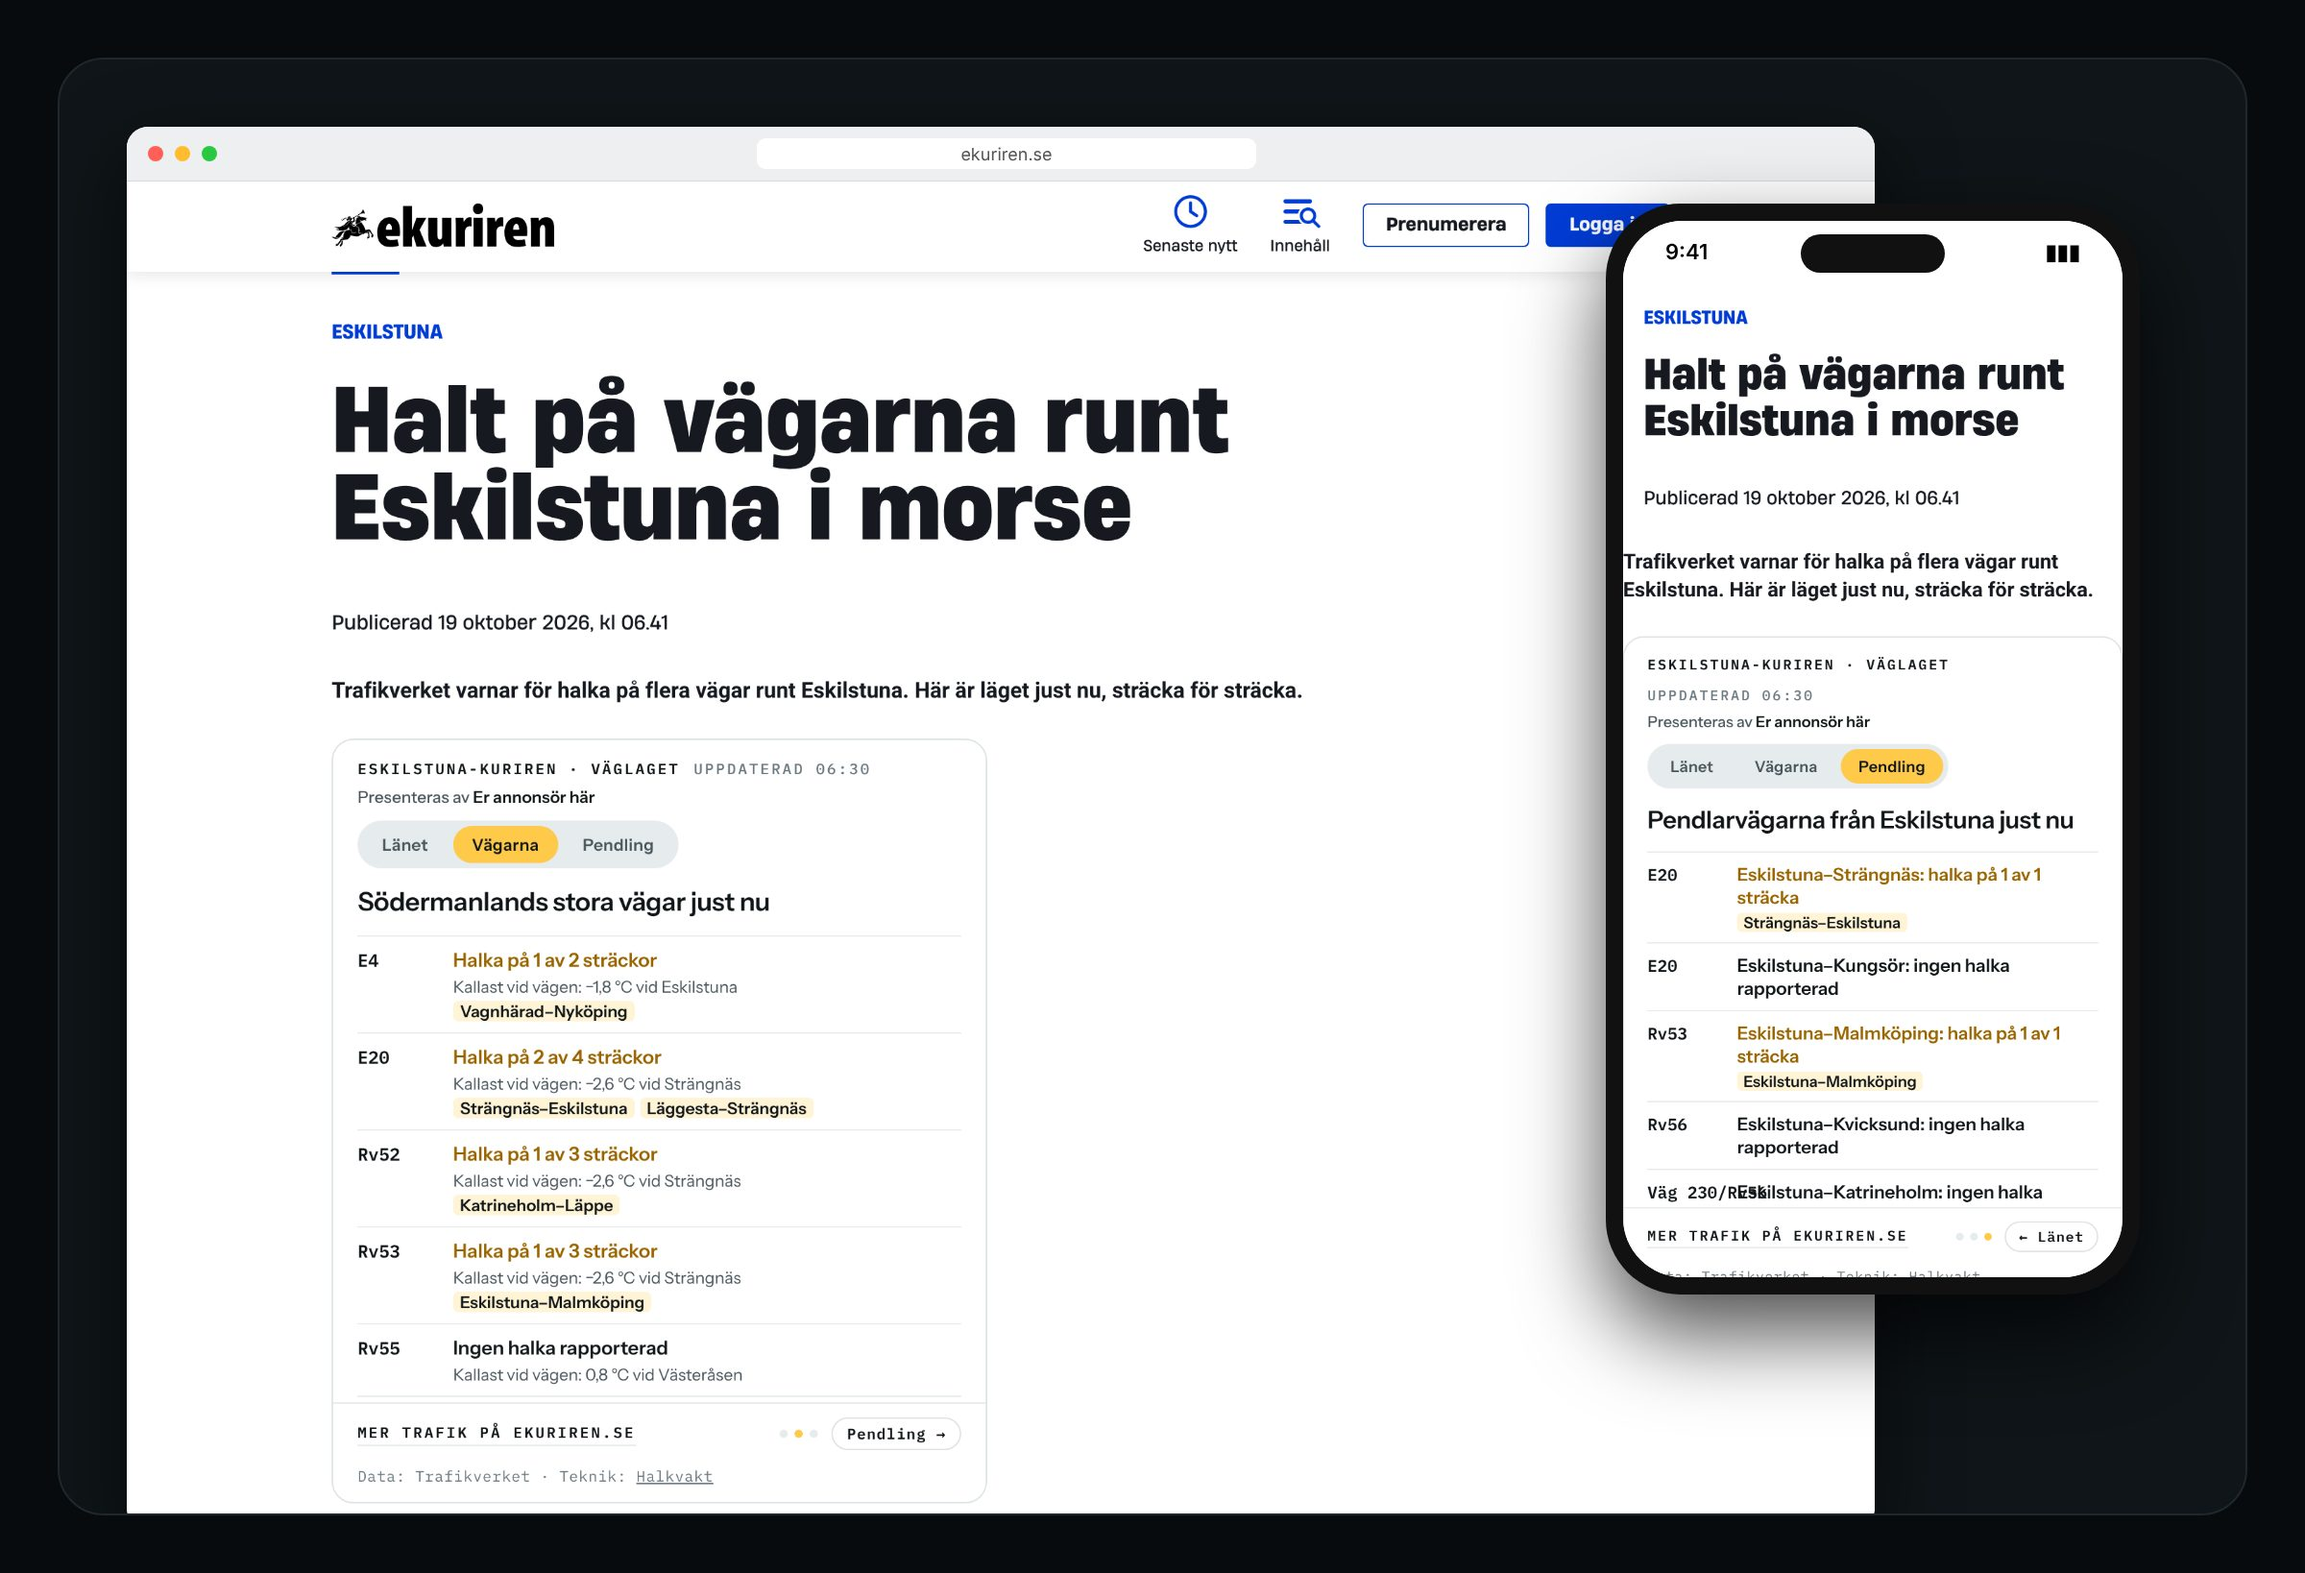
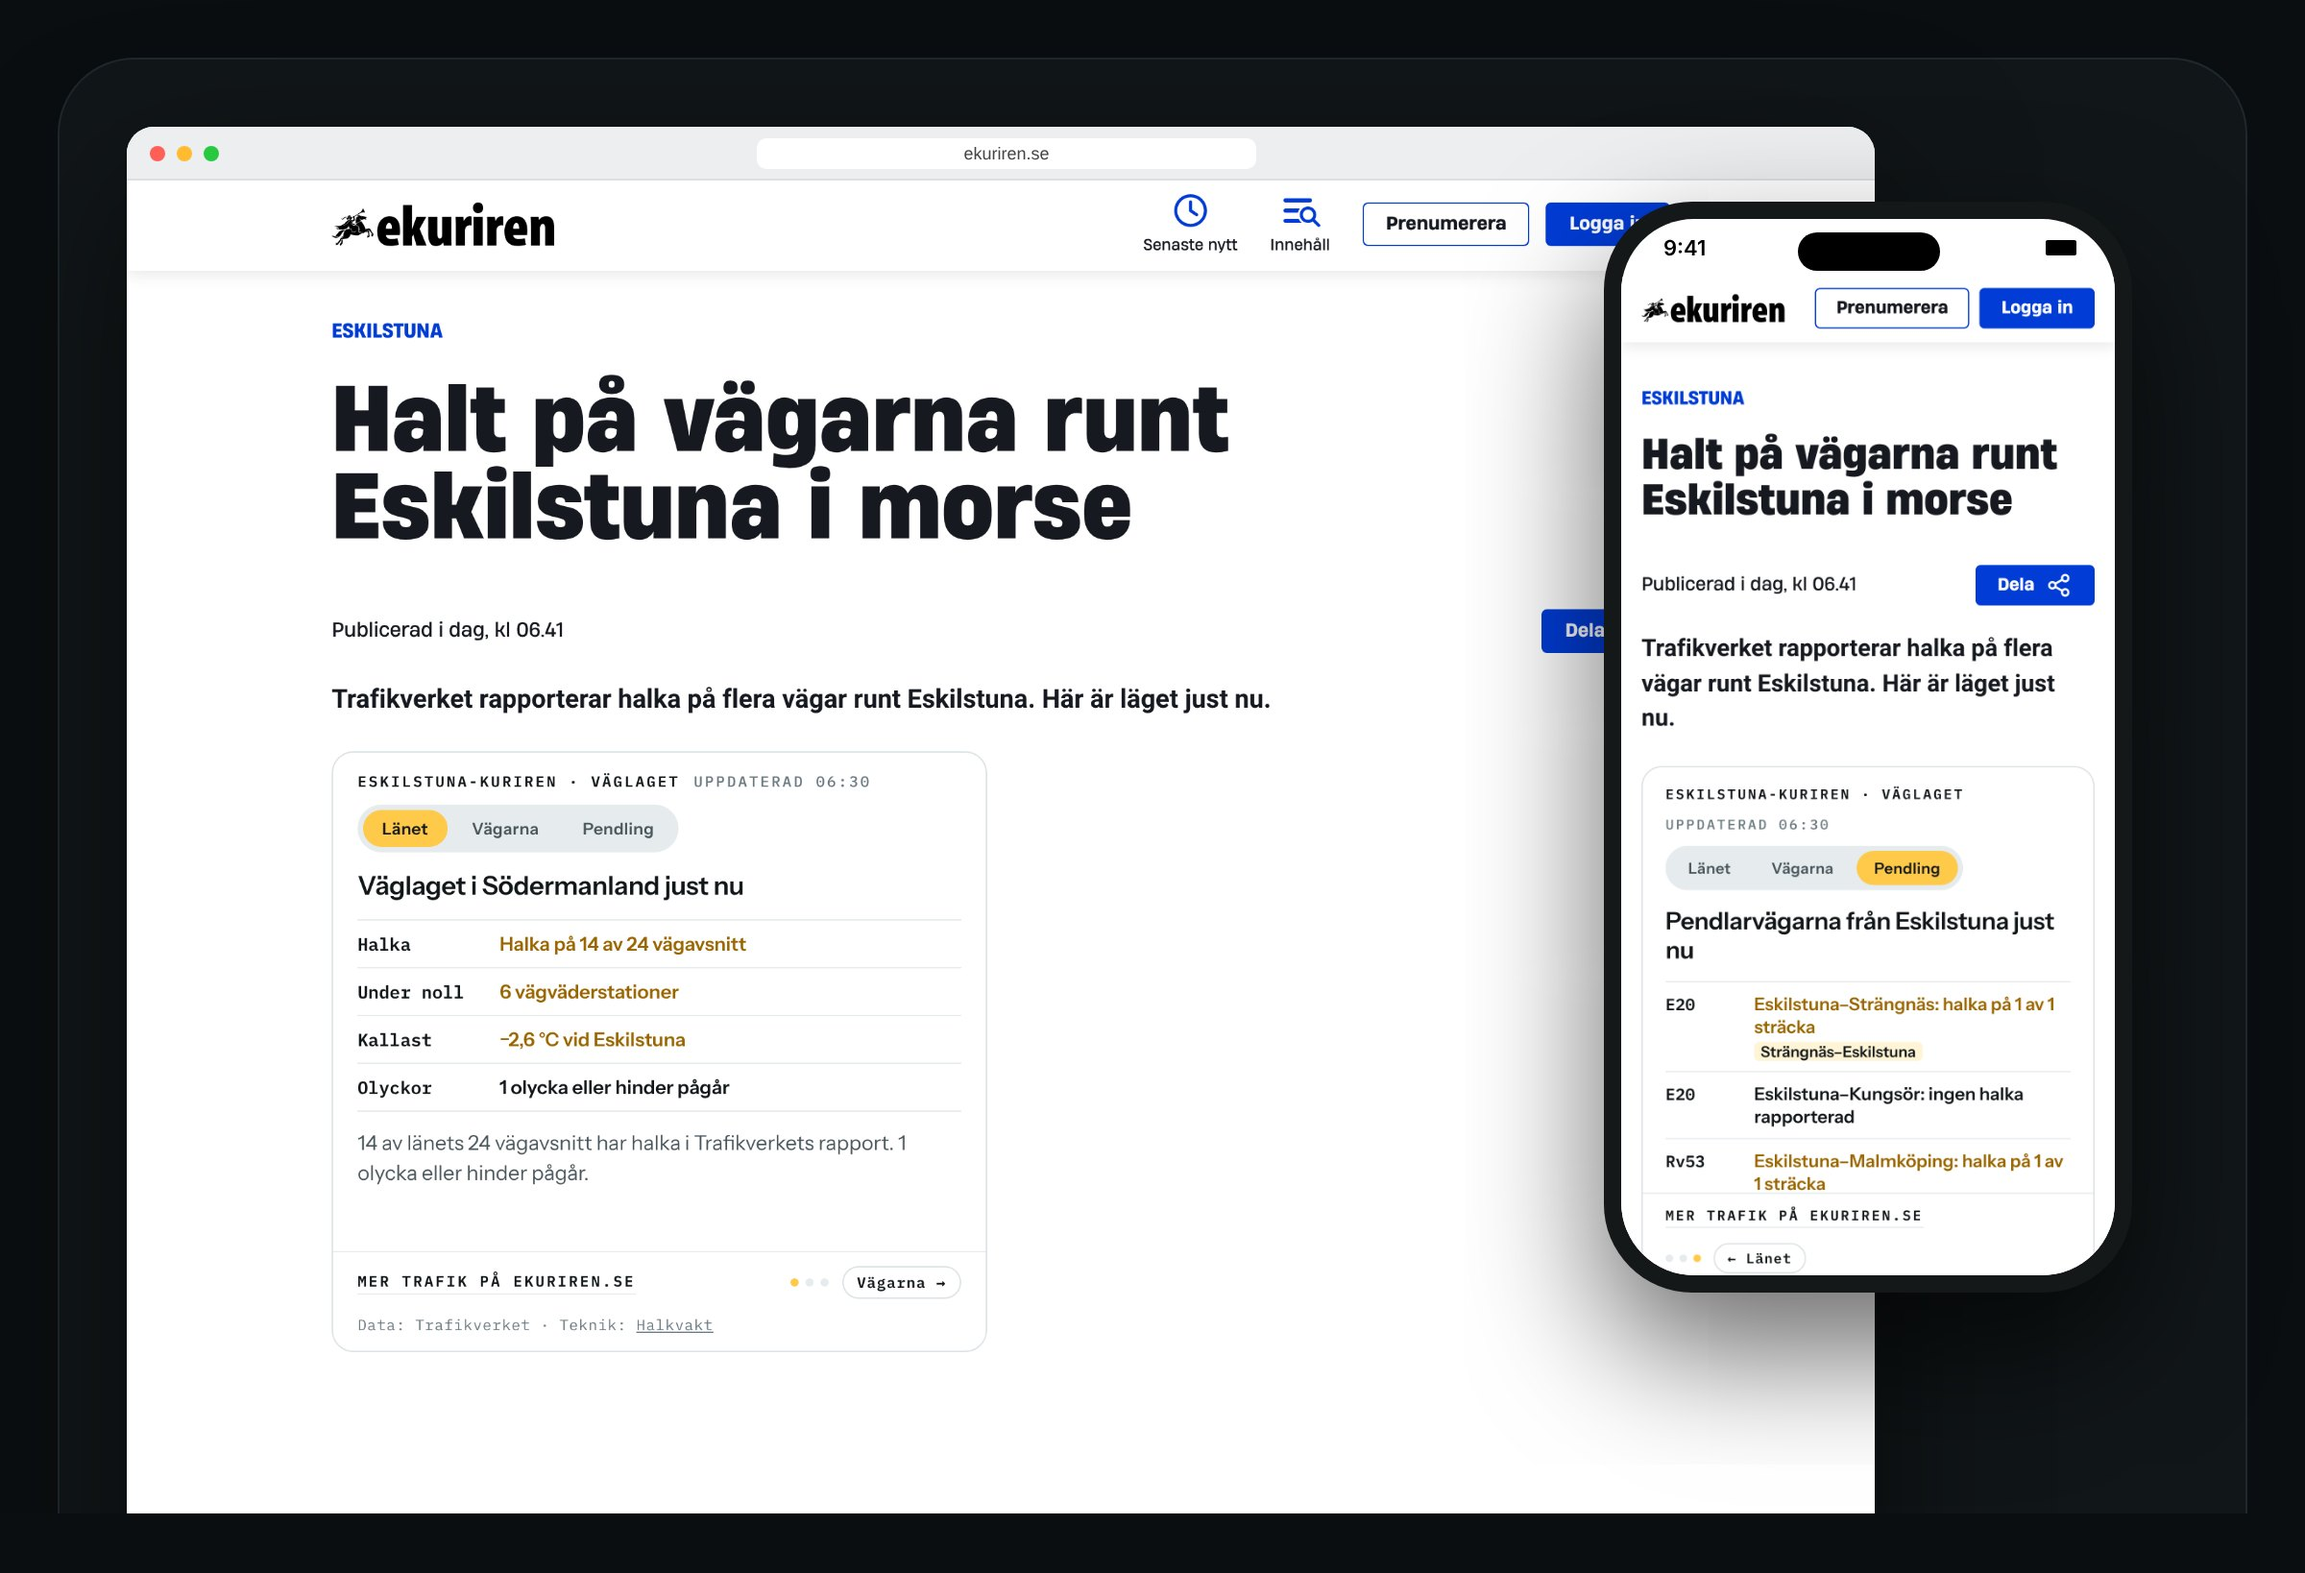
Nytt artikelmontage för Eskilstuna-Kuriren: fliken Länet, ingen annonsörsrad, "i dag" i stället för datum
Axel 13/11: montaget ska se ut som rutan hos Jämtlands Tidning. montage.py får --artikel som bygger
montaget i en riktig artikel på tidningens sajt (kakdialogen godkänns, rubrik, tid och ingress byts,
bilder och brödtext tas bort). Pendlarfliken visar halka på varannan del av stråken.

Claude-Session: https://claude.ai/code/session_01NnkxiqUHnHYivZVGrWoufu

diff --git a/ekuriren.html b/ekuriren.html
@@ -149,7 +149,7 @@ footer{padding-block:40px 64px;border-top:1px solid var(--kant);color:var(--damp
       <h2>Så kan det se ut en morgon med halka</h2>
     </div>
     <figure class="montage">
-      <a href="press/ekuriren-artikel.jpg?v=1" target="_blank" rel="noopener"><img src="press/ekuriren-artikel.jpg?v=1" width="2400" height="1638" alt="Bildmontage: en artikel på ekuriren.se, Halt på vägarna runt Eskilstuna i morse, med Eskilstuna-Kurirens väglagsruta efter ingressen. På datorn visar rutan fliken Vägarna, på mobilen fliken Pendling." loading="lazy"></a>
+      <a href="press/ekuriren-artikel.jpg?v=2" target="_blank" rel="noopener"><img src="press/ekuriren-artikel.jpg?v=2" width="2400" height="1638" alt="Bildmontage: en artikel på ekuriren.se, Halt på vägarna runt Eskilstuna i morse, med Eskilstuna-Kurirens väglagsruta efter ingressen. På datorn visar rutan fliken Länet, på mobilen fliken Pendling." loading="lazy"></a>
     </figure>
     <p class="not">Bildmontage med exempelsiffror: så kan rutan se ut i en artikel hos er, på dator och mobil. Tryck på bilden för full storlek. Rutan överst på sidan är live.</p>
   </div>

diff --git a/verktyg/montage.py b/verktyg/montage.py
@@ -25,10 +25,10 @@ sys.path.insert(0, os.path.join(ROT, 'verktyg'))
 from tidningssida import strak_ur_rutan  # noqa: E402
 
 EXEMPELTID = '2026-10-19T04:30:00.000Z'   # visas som "Uppdaterad 06:30"
-DATUMRAD = '19 oktober 2026 06:41'
+DATUMRAD = 'I dag 06:41'   # inget datum: montaget ska inte se gammalt ut (Axel 13/11)
 
 
-def exempeldata(lan_slug, ort):
+def exempeldata(lan_slug, ort, strak=None):
     """Kopior av data/lan.json och data/strackor.json där tidningens län har halka på ungefär varannan sträcka."""
     lan = json.load(open(os.path.join(ROT, 'data/lan.json'), encoding='utf-8'))
     strackor = json.load(open(os.path.join(ROT, 'data/strackor.json'), encoding='utf-8'))
@@ -49,12 +49,63 @@ def exempeldata(lan_slug, ort):
                 plats = ort or v['strackor'][0]['plats'].split(' - ')[0]
                 v['kallast'] = {'yta': -1.8 if i % 2 else -2.6, 'namn': plats}
                 v['kalla'] = 2
+    # Pendlarfliken: halka på varannan del av stråken, med början på den första, så att mobilbilden visar halka överst.
+    if strak:
+        idx = {(v['vag'], s['plats']): s for v in strackor_lan for s in v['strackor']}
+        for k, (vag, plats) in enumerate(strak.get('delar', [])):
+                s = idx.get((vag, plats))
+                if s is not None and s['halt'] != (k % 2 == 0):
+                    s['halt'] = k % 2 == 0
+                    s['text'] = 'Is- och snövägbana' if s['halt'] else s.get('text', '')
+                    antal += 1 if s['halt'] else -1
     for l in lan['lan']:
         if l['slug'] == lan_slug:
             forsta = next((x for v in strackor_lan for x in [v.get('kallast')] if x), None)
             l.update(halt=min(antal, l['vagavsnitt']), kalla=6, olyckor=1,
                      kallast={'yta': -2.6, 'namn': ort or (forsta['namn'] if forsta else l['kort'])})
     return lan, strackor
+
+# Läggs in i en riktig artikel (--artikel): rubriken byts, tiden blir "i dag", bilder och brödtext tas bort och
+# ingressen följs av rutan. Allt annat på sidan (tidningens huvud, typsnitt, spalt) är tidningens eget.
+BYGG_IN = """(o) => {
+  const h1 = document.querySelector('h1');
+  h1.textContent = o.rubrik;
+  const tid = document.querySelector('main time, article time, time');
+  if (tid) tid.textContent = 'Publicerad i dag, kl 06.41';
+  // Minsta gemensamma behållare för rubrik och tid: allt efter den i dokumentet tas bort (bild, ingress, byline, brödtext).
+  let lca = h1;
+  if (tid) { while (!lca.contains(tid)) lca = lca.parentElement; }
+  // Det barn till behållaren som har tiden (eller rubriken): allt efter det tas bort, rutan läggs direkt efter.
+  let ank = tid || h1;
+  if (ank !== lca) { while (ank.parentElement !== lca) ank = ank.parentElement; } else { ank = h1; }
+  lca.querySelectorAll('figure, picture, img, video, iframe').forEach(e => e.remove());
+  for (let n = ank; n && n !== document.body; n = n.parentElement) {
+    let x = n.nextElementSibling; while (x) { const y = x.nextElementSibling; if (x.tagName !== 'SCRIPT') x.remove(); x = y; }
+  }
+  const blk = document.createElement('div');
+  blk.style.cssText = 'margin:20px 0 600px;max-width:720px';
+  const p = document.createElement('p');
+  p.textContent = o.ingress;
+  p.style.cssText = 'font-weight:700;font-size:19px;line-height:1.45;margin:0 0 24px;font-family:inherit';
+  const f = document.createElement('iframe');
+  f.id = 'halkvakt-montage'; f.src = o.ruta;
+  f.style.cssText = 'width:100%;max-width:480px;height:440px;border:0;display:block';
+  blk.append(p, f); ank.after(blk);
+  blk.style.boxSizing = 'border-box';
+  const dx = Math.round(h1.getBoundingClientRect().left - blk.getBoundingClientRect().left);
+  if (dx > 0) { blk.style.paddingLeft = dx + 'px'; blk.style.paddingRight = dx + 'px'; }
+  window.scrollTo(0, 0);
+}"""
+
+# Godkänner kakdialogen så att den inte syns i bilden.
+GODKANN = r"""() => {
+  const re = /^(jag godkänner|godkänn( alla)?|acceptera( alla)?|tillåt alla|ok|jag förstår)$/i;
+  for (const d of [document, ...Array.from(document.querySelectorAll('iframe')).map(f => { try { return f.contentDocument } catch (e) { return null } })]) {
+    if (!d) continue;
+    for (const b of d.querySelectorAll('button, a[role=button]')) if (re.test(b.textContent.trim())) { b.click(); return true; }
+  }
+  return false;
+}"""
 
 
 ARTIKEL = '''<!doctype html><html lang="sv"><head><meta charset="utf-8"><meta name="viewport" content="width=device-width,initial-scale=1">
@@ -176,6 +227,7 @@ def main():
     ap.add_argument('slug')
     ap.add_argument('--dator'); ap.add_argument('--mobil'); ap.add_argument('--ut')
     ap.add_argument('--vader', action='store_true', help='rutan bredvid väderprognosen: press/<slug>-vader.jpg')
+    ap.add_argument('--artikel', help='en riktig artikel på tidningens sajt: rubrik, ingress och rutan läggs in i den (montage "egen")')
     a = ap.parse_args()
     from playwright.sync_api import sync_playwright
 
@@ -186,7 +238,7 @@ def main():
     st = strak_ur_rutan().get(t.get('strak') or '')
     ort = st['fran'] if st else t.get('ort', '')   # utan stråk: tidningens ort om den står i tidningar.json
     lankort = next(l['kort'] for l in json.load(open(os.path.join(ROT, 'data/lan.json'), encoding='utf-8'))['lan'] if l['slug'] == t['lan'])
-    lan_d, str_d = exempeldata(t['lan'], ort)
+    lan_d, str_d = exempeldata(t['lan'], ort, st)
     ut = a.ut or os.path.join(ROT, 'press', f"{a.slug}-{'vader' if a.vader else 'artikel'}.jpg")
     if a.vader and not ort:
         raise SystemExit('Vädersidan behöver en ort: tidningen saknar stråk.')
@@ -200,7 +252,7 @@ def main():
     def ruta(flik):
         q = [('lan', t['lan']), ('tema', 'ljus')] + ([('strak', t['strak'])] if st else []) + [
             ('namn', t['namn']), ('lank', t['lank']), ('lanktext', 'Mer trafik på ' + t['doman']),
-            ('sponsor', 'Er annonsör här'), ('flik', flik)]
+            ('flik', flik)]   # ingen annonsörsrad i montaget (Axel 13/11)
         return bas + 'ruta.html?' + urllib.parse.urlencode(q)
 
     with sync_playwright() as p:
@@ -220,8 +272,23 @@ def main():
             open(sida, 'w', encoding='utf-8').write(text)
             try:
                 pg = ctx.new_page()
-                pg.goto(bas + '.montage-artikel.html', wait_until='networkidle')
-                fr = pg.frames[1]
+                if a.artikel and not a.vader:
+                    pg.goto(a.artikel, wait_until='domcontentloaded', timeout=60000)
+                    pg.wait_for_timeout(4000)
+                    for f in pg.frames:
+                        try:
+                            if f.evaluate(GODKANN): break
+                        except Exception:
+                            pass
+                    pg.wait_for_timeout(2500)
+                    pg.evaluate(BYGG_IN, {'rubrik': 'Halt på vägarna ' + ('runt ' + ort if ort else 'i ' + lankort) + ' i morse',
+                        'ingress': 'Trafikverket rapporterar halka på flera vägar ' + ('runt ' + ort if ort else 'i ' + lankort) + '. Här är läget just nu.',
+                        'ruta': ruta(flik)})
+                    pg.wait_for_selector('iframe#halkvakt-montage', timeout=15000)
+                    fr = next(f for f in pg.frames if 'ruta.html' in f.url)
+                else:
+                    pg.goto(bas + '.montage-artikel.html', wait_until='networkidle')
+                    fr = pg.frames[1]
                 fr.wait_for_function("document.getElementById('tid').textContent.indexOf('06:30') >= 0", timeout=15000)
                 pg.wait_for_timeout(1200)
                 pg.screenshot(path=fil)
@@ -231,7 +298,7 @@ def main():
 
         dator, mobil = a.dator, a.mobil
         if not dator:
-            dator = os.path.join(tmp, 'dator.png'); skott(1280, 1100, 2, 'lan' if a.vader else 'vagar', dator)
+            dator = os.path.join(tmp, 'dator.png'); skott(1280, 1100, 2, 'lan', dator)   # Länet som hos Jämtlands Tidning (Axel 13/11)
         if not mobil:
             mobil = os.path.join(tmp, 'mobil.png'); skott(390, 832, 3, 'pendling' if st else 'lan', mobil)
 

diff --git a/verktyg/tidningssida.py b/verktyg/tidningssida.py
@@ -162,7 +162,7 @@ def montage(t, v):
         raise SystemExit(f"{t['slug']}: {bild} saknas. Gör montaget först (verktyg/montage.py) eller sätt montage till \"inget\".")
     if t['montage'] == 'egen':
         alt = (f"Bildmontage: en artikel på {t['doman']}, Halt på vägarna runt {v['ort'] or v['lankort']} i morse, med {t['genitiv']} "
-               "väglagsruta efter ingressen. På datorn visar rutan fliken Vägarna, på mobilen fliken Pendling.")
+               "väglagsruta efter ingressen. På datorn visar rutan fliken Länet, på mobilen fliken Pendling.")
         not_ = ('Bildmontage med exempelsiffror: så kan rutan se ut i en artikel hos er, på dator och mobil. '
                 'Tryck på bilden för full storlek. Rutan överst på sidan är live.')
     elif t['montage'] == 'neutral':
@@ -178,7 +178,7 @@ def montage(t, v):
       <h2>Så kan det se ut en morgon med halka</h2>
     </div>
     <figure class="montage">
-      <a href="{bild}?v=1" target="_blank" rel="noopener"><img src="{bild}?v=1" width="2400" height="1638" alt="{html.escape(alt, quote=True)}" loading="lazy"></a>
+      <a href="{bild}?v=2" target="_blank" rel="noopener"><img src="{bild}?v=2" width="2400" height="1638" alt="{html.escape(alt, quote=True)}" loading="lazy"></a>
     </figure>
     <p class="not">{not_}</p>
   </div>
